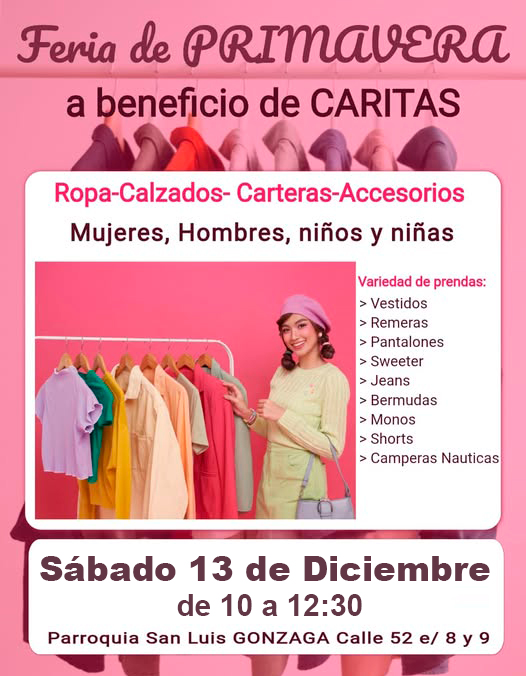
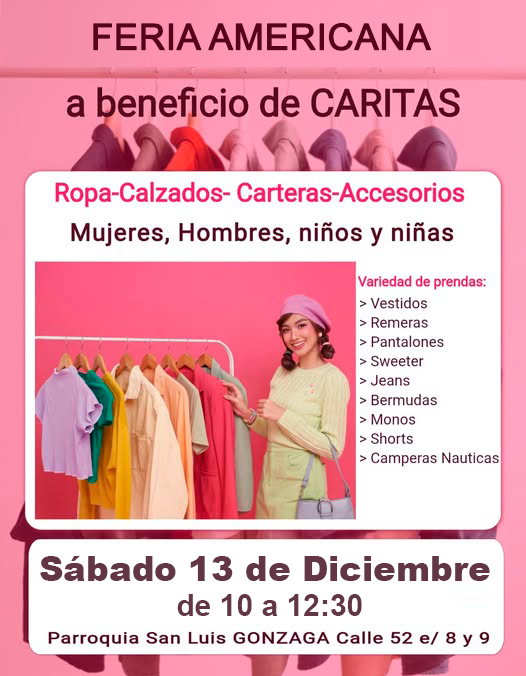
feria americana fix

Changed region(s): [[0.0304, 0.0311, 0.9734, 0.0932]]

diff --git a/index.html b/index.html
@@ -3582,7 +3582,7 @@
         height: 520px;
         margin: 0 auto 1rem;
         border-radius: 12px;
-        background-image: url('./img/feria-parroquia.jpg');
+        background-image: url('./img/feria-americana-dic.jpg');
         background-size: contain;
         background-repeat: no-repeat;
         background-position: center;
